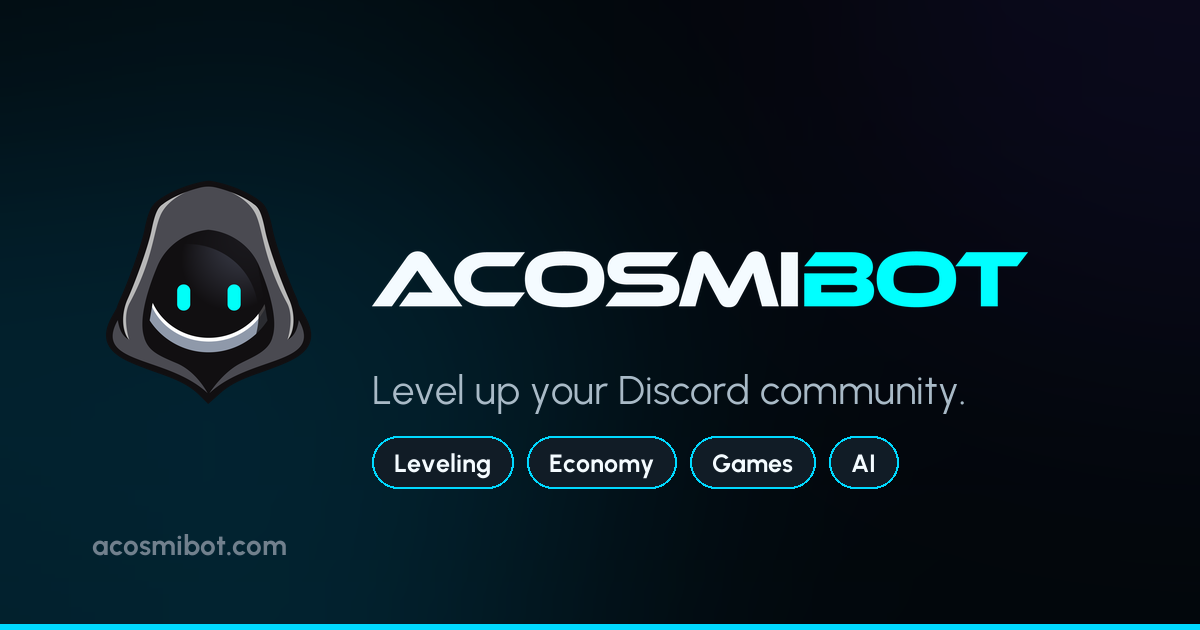
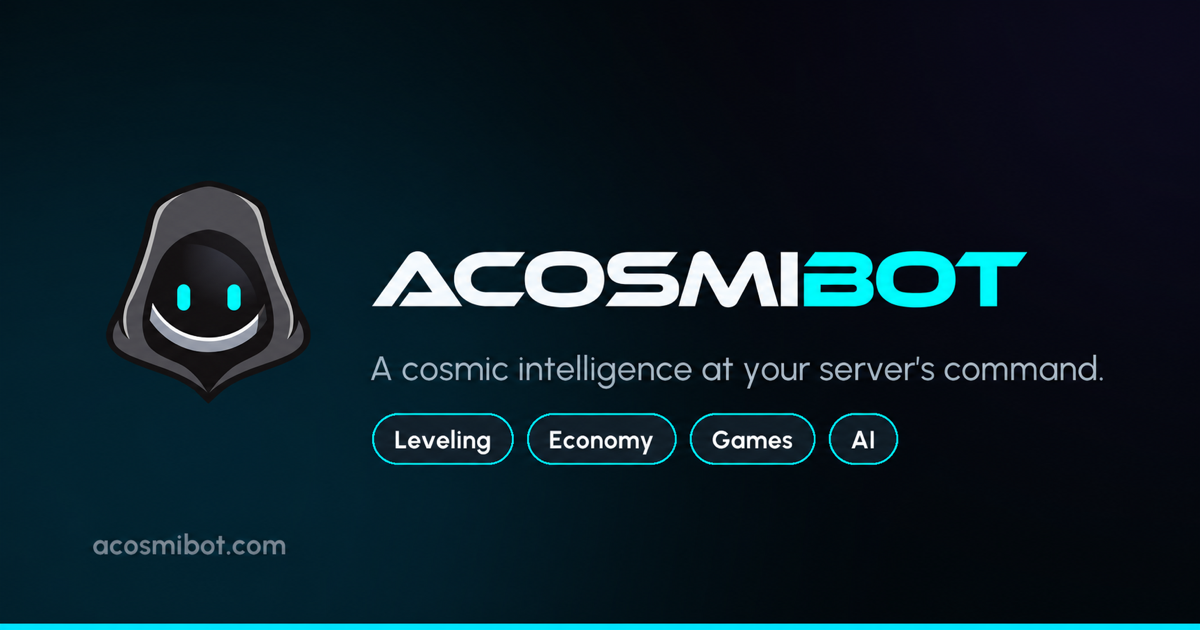
SEO improvements

diff --git a/vite.config.ts b/vite.config.ts
@@ -8,6 +8,7 @@ import {
   DOC_ROUTES,
   FEATURE_LANDINGS,
   getSeoMeta,
+  HOME_TAGLINE,
   INDEXABLE_PUBLIC_PATHS,
   SITE_ORIGIN,
 } from './src/seo/publicRoutes';
@@ -39,7 +40,7 @@ const renderHomeBody = () => `
   <div class="seo-prerender seo-prerender--home">
     ${publicNav}
     <main>
-      <h1>One Discord bot. A whole community in motion.</h1>
+      <h1>${escapeHtml(HOME_TAGLINE)}</h1>
       <p>Acosmibot brings agentic AI, leveling, economy, games, rank cards, stream alerts, moderation, reaction roles, giveaways, and utilities into one connected Discord community system.</p>
       <h2>Explore Acosmibot's core Discord bot features</h2>
       ${linkList(Object.values(FEATURE_LANDINGS).map(feature => ({ href: `/features/${feature.slug}`, label: feature.title })))}
@@ -108,6 +109,7 @@ const applyHead = (source: string, pathname: string, indexable = true) => {
   const meta = getSeoMeta(pathname);
   const canonical = `${SITE_ORIGIN}${meta.canonicalPath}`;
   const robots = indexable ? 'index, follow, max-image-preview:large' : 'noindex, nofollow';
+  const socialTitle = meta.socialTitle ?? meta.title;
   const replaceMeta = (html: string, selector: string, value: string) => html.replace(
     new RegExp(`(<meta\\s+${selector}\\s+content=")[^"]*("\\s*\\/?>)`, 'i'),
     `$1${escapeHtml(value)}$2`,
@@ -119,10 +121,10 @@ const applyHead = (source: string, pathname: string, indexable = true) => {
     .replace(/<script id="acosmibot-structured-data"[\s\S]*?<\/script>/i, '');
   html = replaceMeta(html, 'name="description"', meta.description);
   html = replaceMeta(html, 'name="robots"', robots);
-  html = replaceMeta(html, 'property="og:title"', meta.title);
+  html = replaceMeta(html, 'property="og:title"', socialTitle);
   html = replaceMeta(html, 'property="og:description"', meta.description);
   html = replaceMeta(html, 'property="og:url"', indexable ? canonical : SITE_ORIGIN);
-  html = replaceMeta(html, 'name="twitter:title"', meta.title);
+  html = replaceMeta(html, 'name="twitter:title"', socialTitle);
   html = replaceMeta(html, 'name="twitter:description"', meta.description);
 
   if (indexable) {

diff --git a/index.html b/index.html
@@ -15,16 +15,16 @@
     <meta property="og:type" content="website" />
     <meta property="og:site_name" content="Acosmibot" />
     <meta property="og:url" content="https://acosmibot.com/" />
-    <meta property="og:title" content="Acosmibot | AI, Leveling, Economy &amp; Games for Discord" />
+    <meta property="og:title" content="A cosmic intelligence at your server’s command." />
     <meta property="og:description" content="Add one Discord bot for agentic AI, leveling, economy, games, rank cards, stream alerts, moderation, reaction roles, giveaways, and more." />
-    <meta property="og:image" content="https://acosmibot.com/images/acosmibot-og.png?v=1" />
+    <meta property="og:image" content="https://acosmibot.com/images/acosmibot-og.png?v=2" />
     <meta property="og:image:width" content="1200" />
     <meta property="og:image:height" content="630" />
     <meta property="og:image:alt" content="Acosmibot — leveling, economy, games, and AI for Discord" />
     <meta name="twitter:card" content="summary_large_image" />
-    <meta name="twitter:title" content="Acosmibot | AI, Leveling, Economy &amp; Games for Discord" />
+    <meta name="twitter:title" content="A cosmic intelligence at your server’s command." />
     <meta name="twitter:description" content="Add one Discord bot for agentic AI, leveling, economy, games, rank cards, stream alerts, moderation, reaction roles, giveaways, and more." />
-    <meta name="twitter:image" content="https://acosmibot.com/images/acosmibot-og.png?v=1" />
+    <meta name="twitter:image" content="https://acosmibot.com/images/acosmibot-og.png?v=2" />
     <meta name="theme-color" content="#00D9FF" />
     <script src="/scripts/config.js"></script>
     <link rel="preconnect" href="https://fonts.googleapis.com" />

diff --git a/src/components/seo/SeoHead.tsx b/src/components/seo/SeoHead.tsx
@@ -32,16 +32,17 @@ export const SeoHead = () => {
     const meta = getSeoMeta(pathname);
     const canonical = meta.indexable ? `${SITE_ORIGIN}${meta.canonicalPath}` : null;
     const robots = meta.indexable ? 'index, follow, max-image-preview:large' : 'noindex, nofollow';
+    const socialTitle = meta.socialTitle ?? meta.title;
 
     document.title = meta.title;
     upsertMeta('meta[name="description"]', { name: 'description', content: meta.description });
     upsertMeta('meta[name="robots"]', { name: 'robots', content: robots });
     upsertMeta('meta[property="og:type"]', { property: 'og:type', content: 'website' });
     upsertMeta('meta[property="og:site_name"]', { property: 'og:site_name', content: 'Acosmibot' });
-    upsertMeta('meta[property="og:title"]', { property: 'og:title', content: meta.title });
+    upsertMeta('meta[property="og:title"]', { property: 'og:title', content: socialTitle });
     upsertMeta('meta[property="og:description"]', { property: 'og:description', content: meta.description });
     upsertMeta('meta[property="og:url"]', { property: 'og:url', content: canonical ?? SITE_ORIGIN });
-    upsertMeta('meta[name="twitter:title"]', { name: 'twitter:title', content: meta.title });
+    upsertMeta('meta[name="twitter:title"]', { name: 'twitter:title', content: socialTitle });
     upsertMeta('meta[name="twitter:description"]', { name: 'twitter:description', content: meta.description });
     setCanonical(canonical);
 

diff --git a/src/pages/HomePage.tsx b/src/pages/HomePage.tsx
@@ -42,6 +42,7 @@ import { PublicNav } from '@/components/layout/PublicNav';
 import { startLogin } from '@/lib/auth';
 import { trackEvent } from '@/lib/analytics';
 import { COMPANY_BRAND } from '@/lib/company';
+import { HOME_TAGLINE } from '@/seo/publicRoutes';
 import '@/styles/home.css';
 
 const DISCORD_INVITE = 'https://discord.com/oauth2/authorize?client_id=1186802023799214223&permissions=8&integration_type=0&scope=bot';
@@ -648,7 +649,10 @@ export const HomePage: React.FC = () => {
                 <span className="home-kicker__signal" />
                 Community operating system
               </div>
-              <h1><span className="home-hero__primary">Level up your</span><span>Discord community.</span></h1>
+              <h1 aria-label={HOME_TAGLINE}>
+                <span className="home-hero__primary">A cosmic intelligence</span>
+                <span>at your server’s command.</span>
+              </h1>
               <p>
                 Acosmibot connects engagement, economy, games, and agentic AI-powered interactions in one
                 living system—built to keep your server active and entertained.

diff --git a/src/seo/publicRoutes.ts b/src/seo/publicRoutes.ts
@@ -1,5 +1,6 @@
 export const SITE_ORIGIN = 'https://acosmibot.com';
 export const DISCORD_INVITE_URL = 'https://discord.com/oauth2/authorize?client_id=1186802023799214223&permissions=8&integration_type=0&scope=bot';
+export const HOME_TAGLINE = 'A cosmic intelligence at your server’s command.';
 
 export type FeatureLandingTheme = 'intelligence' | 'leveling' | 'economy' | 'games';
 
@@ -227,6 +228,7 @@ export const DOC_ROUTES = [
 export interface SeoMeta {
   title: string;
   description: string;
+  socialTitle?: string;
   canonicalPath: string;
   indexable: boolean;
   kind: 'home' | 'feature' | 'docs' | 'pricing' | 'legal' | 'app';
@@ -236,6 +238,7 @@ const EXACT_PUBLIC_META: Record<string, Omit<SeoMeta, 'canonicalPath'>> = {
   '/': {
     title: 'Acosmibot | AI, Leveling, Economy & Games for Discord',
     description: 'Add one Discord bot for agentic AI, leveling, economy, games, rank cards, stream alerts, moderation, reaction roles, giveaways, and more.',
+    socialTitle: HOME_TAGLINE,
     indexable: true,
     kind: 'home',
   },

diff --git a/tests/seo.test.ts b/tests/seo.test.ts
@@ -10,6 +10,7 @@ import {
   getSeoMeta,
   INDEXABLE_PUBLIC_PATHS,
   SITE_ORIGIN,
+  HOME_TAGLINE,
 } from '../src/seo/publicRoutes.ts';
 
 test('every public route has unique indexable metadata and a canonical URL', () => {
@@ -23,6 +24,12 @@ test('every public route has unique indexable metadata and a canonical URL', () 
     assert.ok(meta.description.length >= 90);
     assert.ok(`${SITE_ORIGIN}${meta.canonicalPath}`.startsWith('https://acosmibot.com/'));
   }
+});
+
+test('homepage keeps its search title while using the cosmic social tagline', () => {
+  const homepage = getSeoMeta('/');
+  assert.match(homepage.title, /AI.*Discord/i);
+  assert.equal(homepage.socialTitle, HOME_TAGLINE);
 });
 
 test('documentation manifest and source views stay in sync', () => {
